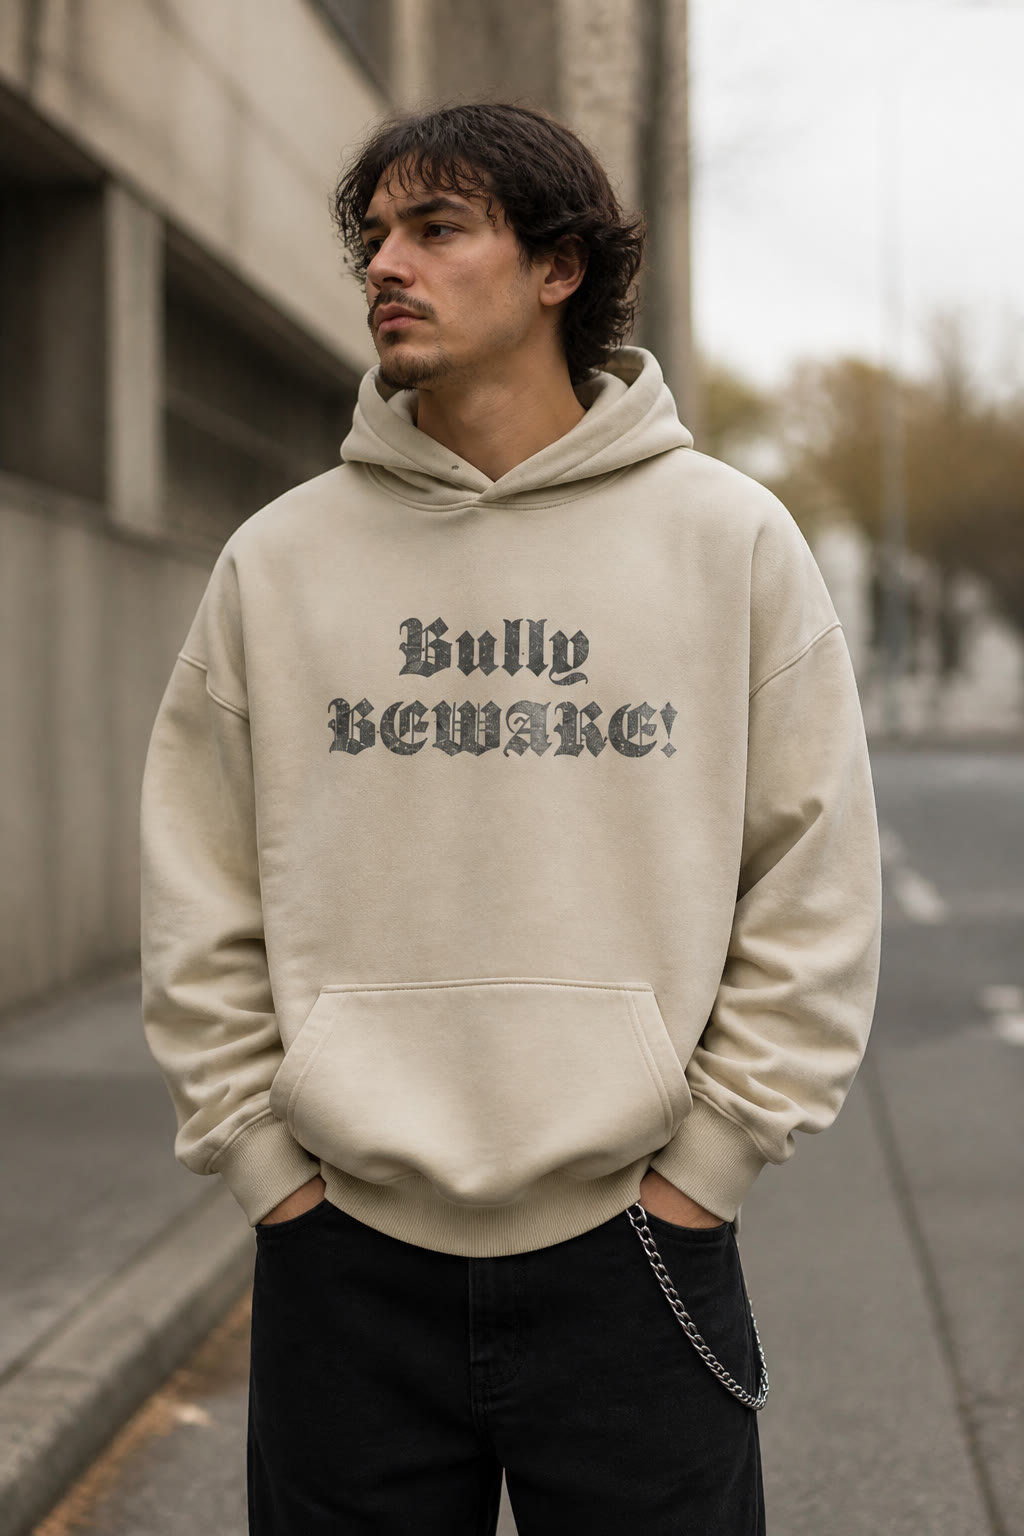
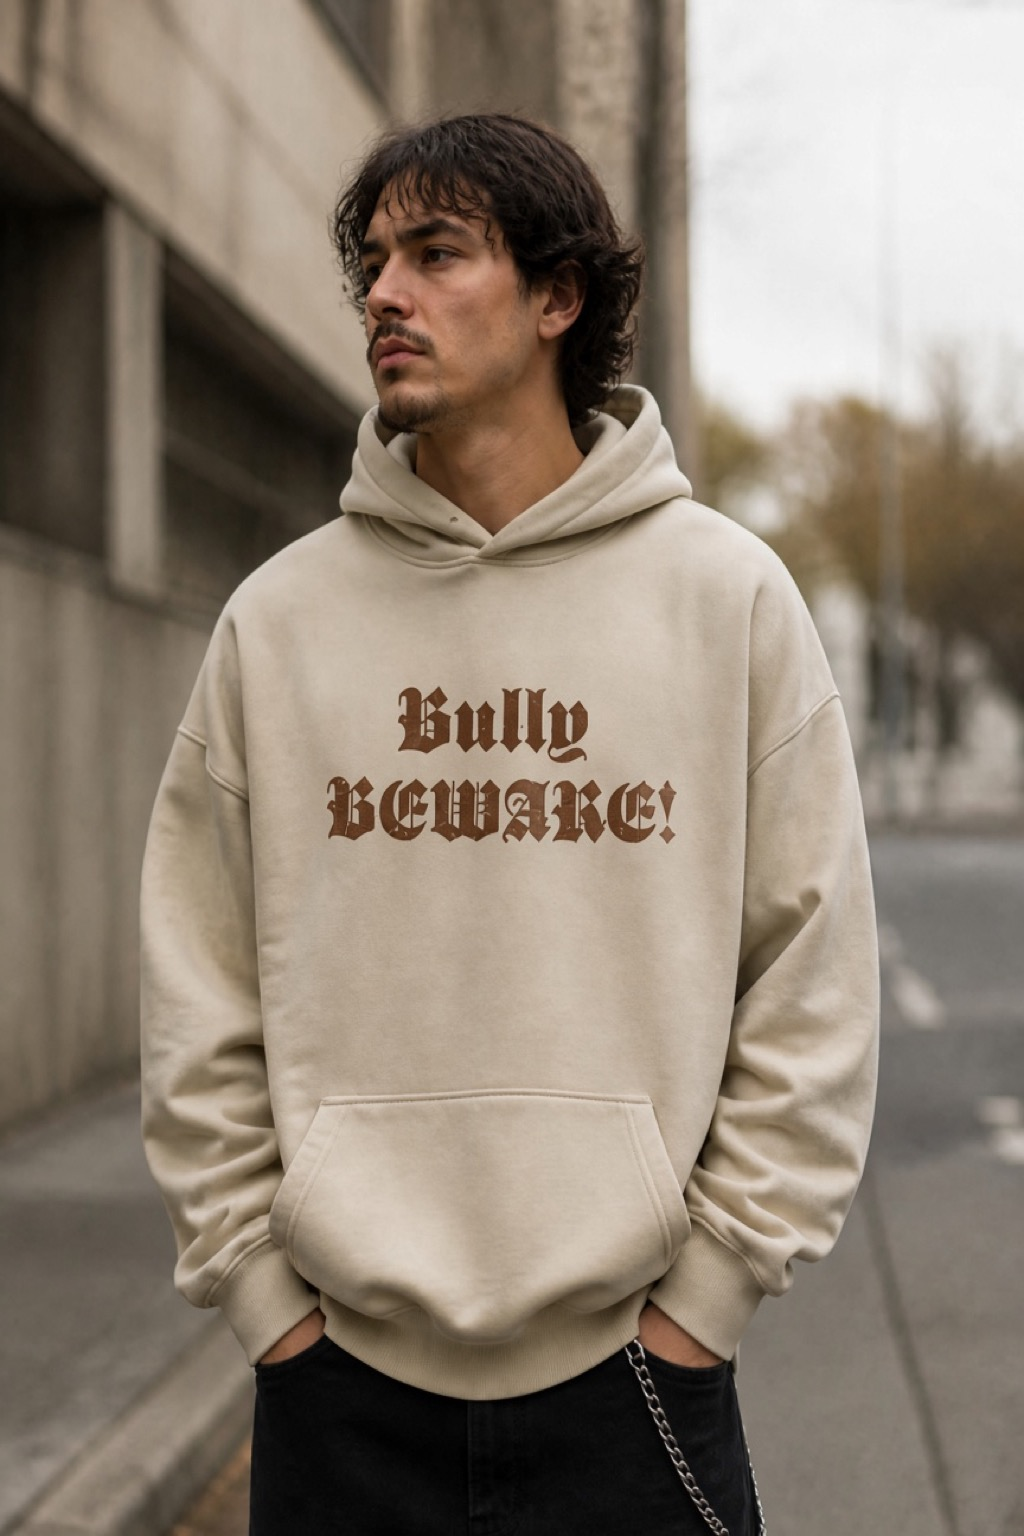
Restore beige Beware Hood with warm brown gothic lettering.

diff --git a/js/site-config.js b/js/site-config.js
@@ -58,7 +58,7 @@
       {
         id: 'graphic',
         name: 'Beware',
-        tagline: 'Gothic print. Pink and black.'
+        tagline: 'Gothic print. Beige, pink, and black.'
       },
       {
         id: 'mark',
@@ -98,8 +98,12 @@
         collection: 'graphic',
         price: 128,
         sizes: ['S', 'M', 'L', 'XL', 'XXL'],
-        colors: wornColors('beware-hood'),
-        description: 'Oversized heavyweight pullover. Front: “Bully BEWARE!” in distressed blackletter. Back: “Never-mind the dog, beware the owner.” Drop shoulder, thick hood, rib that holds. Pink and black.',
+        colors: [
+          { name: 'Beige', slug: 'beige', hex: '#c9b89a', image: worn('beware-hood', 'beige') },
+          { name: 'Pink', slug: 'pink', hex: '#e5b3c5', image: worn('beware-hood', 'pink') },
+          { name: 'Black', slug: 'black', hex: '#111111', image: worn('beware-hood', 'black') }
+        ],
+        description: 'Oversized heavyweight pullover. Front: “Bully BEWARE!” in distressed blackletter. Back: “Never-mind the dog, beware the owner.” Drop shoulder, thick hood, rib that holds. Beige (brown print), pink, and black.',
         image: worn('beware-hood', 'black'),
         fit: 'cover',
         featured: true
